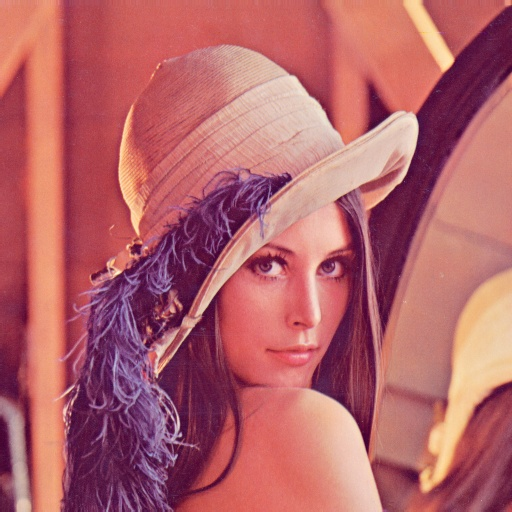
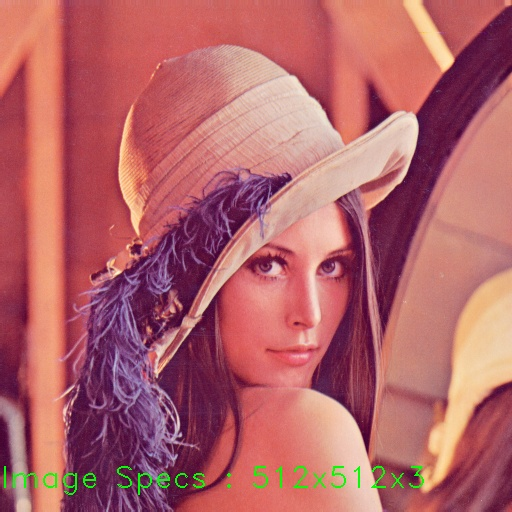
feat: practical 5 codes: master

Changed region(s): [[0.4375, 0.9062, 0.8438, 0.9688], [0.2188, 0.9062, 0.4062, 0.9688], [0.0, 0.9062, 0.1875, 0.9688]]

diff --git a/Practical 2/src/Add Subtract Images.py b/Practical 2/src/Add Subtract Images.py
@@ -1,11 +1,11 @@
 import cv2
 import numpy as np
 
-img_lena = cv2.imread('../data/lena.png')
-img_star = cv2.imread('../data/star.png')
+img_lena = cv2.imread('../data/lena.png', 0)
+img_star = cv2.imread('../data/star.png', 0)
 #
-# # cv2.imshow("star", img_star)
-# # cv2.imshow("black", img_green)
+# cv2.imshow("star", img_star)
+# cv2.imshow("black", img_lena)
 #
 # # img_star = cv2.resize(img_star, (512, 512))
 # # pixel addition and pixel subtraction
@@ -13,27 +13,27 @@ img_star = cv2.imread('../data/star.png')
 # cv2.imshow("subtraction", img_star - img_lena)
 #
 # # image superimposition
-# img_add = cv2.add(img_star, img_lena)
-# img_sub = cv2.subtract(img_star, img_lena)
+img_add = cv2.add(img_star, img_lena)
+img_sub = cv2.subtract(img_star, img_lena)
 #
-# cv2.imshow("addition sup", img_add)
-# cv2.imshow("subtraction sup", img_sub)
+cv2.imshow("addition sup", img_add)
+cv2.imshow("subtraction sup", img_sub)
 #
 # image multiplication and division
-# img_mul = cv2.multiply(img_star, img_lena)
-# img_div = cv2.divide(img_star, img_lena)
+img_mul = cv2.multiply(img_star, img_lena)
+img_div = cv2.divide(img_star, img_lena)
 #
-# cv2.imshow("multiplication sup", img_mul)
-# cv2.imshow("division sup", img_div)
+cv2.imshow("multiplication sup", img_mul)
+cv2.imshow("division sup", img_div)
 #
 # image scaling
-img_cameraman = cv2.imread('../data/cameraman.jpg', 0)
-
-img_mul = cv2.multiply(img_cameraman, 2)
-img_div = cv2.multiply(img_cameraman, 0.5)
-
-cv2.imshow("scaled image mul", img_mul)
-cv2.imshow("scaled image div", img_div)
+# img_cameraman = cv2.imread('../data/cameraman.jpg', 0)
+#
+# img_mul = cv2.multiply(img_cameraman, 2)
+# img_div = cv2.multiply(img_cameraman, 0.5)
+#
+# cv2.imshow("scaled image mul", img_mul)
+# cv2.imshow("scaled image div", img_div)
 
 # logical scaling
 # img1 = cv2.imread('../data/img1.png')

diff --git a/Practical 5/src/High Pass Filter.py b/Practical 5/src/High Pass Filter.py
@@ -1,0 +1,45 @@
+import cv2
+import numpy as np
+import matplotlib.pyplot as plt
+import seaborn as sns
+
+image = cv2.imread("../data/cameraman.jpg", 0)
+
+kernel_3x3 = np.array([
+    [0.0, -1.0, 0.0],
+    [-1.0, 4.0, -1.0],
+    [0.0, -1.0, 0.0],
+])
+kernel_3x3 = kernel_3x3 / (np.sum(kernel_3x3) if np.sum(kernel_3x3) != 0 else 1)
+
+kernel_5x5 = np.array([
+    [0.0, 0.0, -1.0, 0.0, 0.0],
+    [0.0, -1.0, -2.0, -1.0, 0.0],
+    [-1.0, -2.0, 16.0, -2.0, -1.0],
+    [0.0, -1.0, -2.0, -1.0, 0.0],
+    [0.0, 0.0, -1.0, 0.0, 0.0],
+])
+
+kernel_5x5 = kernel_5x5 / (np.sum(kernel_5x5) if np.sum(kernel_5x5) != 0 else 1)
+
+kernel_5x5_2 = np.array([
+    [-1.0, -1.0, -1.0, -1.0, -1.0],
+    [-1.0, 1.0, 2.0, 1.0, -1.0],
+    [-1.0, 2.0, 4.0, 2.0, -1.0],
+    [-1.0, 1.0, 2.0, 1.0, -1.0],
+    [-1.0, -1.0, -1.0, -1.0, -1.0],
+])
+
+kernel_5x5_2 = kernel_5x5_2 / (np.sum(kernel_5x5_2) if np.sum(kernel_5x5_2) != 0 else 1)
+
+filtered_image_3x3 = cv2.filter2D(image, -1, kernel_3x3)
+filtered_image_5x5 = cv2.filter2D(image, -1, kernel_5x5)
+filtered_image_5x5_2 = cv2.filter2D(image, -1, kernel_5x5_2)
+
+cv2.imshow("Original", image)
+cv2.imshow("Filtered 3x3", filtered_image_3x3)
+cv2.imshow("Filtered 5x5", filtered_image_5x5)
+cv2.imshow("Filtered 5x5_2", filtered_image_5x5_2)
+
+cv2.waitKey(0)
+cv2.destroyAllWindows()

diff --git a/Practical 1/src/Reading Image Using OpenCV.py b/Practical 1/src/Reading Image Using OpenCV.py
@@ -3,15 +3,24 @@ import numpy as np
 
 # reading image from data/ folder using opencv
 lena_image = cv2.imread('../data/lena.png', 1)
+
+[h, w, d] = lena_image.shape
+
+cv2.putText(img=lena_image, text=f'Image Specs : {h}x{w}x{d}', org=(0, w - 25), fontFace=cv2.FONT_HERSHEY_DUPLEX,
+            color=(0, 255, 0), fontScale=1)
 cv2.imshow("Lena Image", lena_image)
 # print(lena_image)
 
 # reading image from data/ folder using opencv with flag : 0 -> read grayscale, 1 -> color image
-lena_image_gray = cv2.imread('../data/lena.png', 0)
+lena_image_gray = cv2.imread('../data/lena.png', cv2.IMREAD_GRAYSCALE)  # 0 can also be used
+
+[h, w] = lena_image_gray.shape
+
+cv2.putText(img=lena_image_gray, text=f'Image Specs : {h}x{w}', org=(0, w - 25), fontFace=cv2.FONT_HERSHEY_DUPLEX,
+            color=(0, 255, 0), fontScale=1)
 cv2.imshow("Lena Image Gray", lena_image_gray)
 
 # Get shape (h, w, d) of the image that is read
-[h, w, d] = lena_image.shape
 print(f'Height of image : {h}\nWidth of image : {w}\nDepth of image : {d}')
 
 cv2.imwrite('../data/lena saved.jpg', lena_image)

diff --git a/Practical 5/src/Low Pass Median Filter.py b/Practical 5/src/Low Pass Median Filter.py
@@ -1,0 +1,38 @@
+import cv2
+import numpy as np
+import matplotlib.pyplot as plt
+import seaborn as sns
+
+kernel_5x5 = np.array([
+    [1, 1, 1, 1, 1],
+    [1, 1, 1, 1, 1],
+    [1, 1, 1, 1, 1],
+    [1, 1, 1, 1, 1],
+    [1, 1, 1, 1, 1],
+])
+
+kernel_3x3 = np.array([
+    [1, 1, 1],
+    [1, 1, 1],
+    [1, 1, 1],
+])
+
+image = cv2.imread("../data/mri_2.png", 0)
+
+# median filter
+filtered_image_5x5 = cv2.medianBlur(image, 5)
+filtered_image_3x3 = np.zeros(image.shape, dtype=np.uint8)
+
+for i in range(image.shape[0] - 1):
+    for j in range(image.shape[1] - 1):
+        temp = [image[i - 1, j - 1], image[i - 1, j], image[i - 1, j + 1], image[i, j - 1], image[i, j],
+                image[i, j + 1], image[i + 1, j - 1], image[i + 1, j], image[i + 1, j + 1]]
+
+        temp.sort()
+        filtered_image_3x3[i, j] = temp[4]
+
+cv2.imshow("Original", image)
+cv2.imshow("Filtered 5x5", filtered_image_5x5)
+cv2.imshow("Filtered 3x3", filtered_image_3x3)
+cv2.waitKey(0)
+cv2.destroyAllWindows()

diff --git a/Practical 5/src/Low Pass Averaging Filter.py b/Practical 5/src/Low Pass Averaging Filter.py
@@ -1,0 +1,31 @@
+import cv2
+import numpy as np
+import matplotlib.pyplot as plt
+import seaborn as sns
+
+kernel_5x5 = np.array([
+    [1, 1, 1, 1, 1],
+    [1, 1, 1, 1, 1],
+    [1, 1, 1, 1, 1],
+    [1, 1, 1, 1, 1],
+    [1, 1, 1, 1, 1],
+])
+
+kernel_3x3 = np.array([
+    [1, 1, 1],
+    [1, 1, 1],
+    [1, 1, 1],
+])
+
+kernel_5x5 = kernel_5x5 / sum(kernel_5x5)
+kernel_3x3 = kernel_3x3 / sum(kernel_3x3)
+
+image = cv2.imread("../data/mri_2.png", 0)
+filtered_image_5x5 = cv2.filter2D(image, -1, kernel_5x5)
+filtered_image_3x3 = cv2.filter2D(image, -1, kernel_3x3)
+
+cv2.imshow("Original", image)
+cv2.imshow("Filtered 5x5", filtered_image_5x5)
+cv2.imshow("Filtered 3x3", filtered_image_3x3)
+cv2.waitKey(0)
+cv2.destroyAllWindows()

diff --git a/ROUGH.py b/ROUGH.py
@@ -1,0 +1,12 @@
+import numpy as np
+
+kernel_5x5 = np.array([
+    [1, 1, 1, 1, 1],
+    [1, 1, 1, 1, 1],
+    [1, 1, 1, 1, 1],
+    [1, 1, 1, 1, 1],
+    [1, 1, 1, 1, 1],
+])
+
+print(kernel_5x5 / np.sum(kernel_5x5))
+print(np.reshape(kernel_5x5, (1, 25)) == np.ravel(kernel_5x5))
